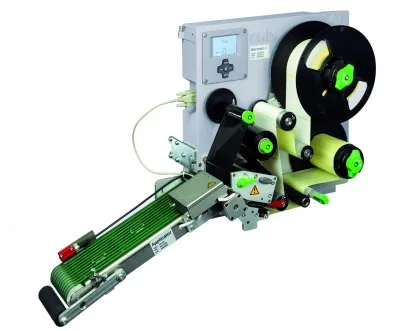
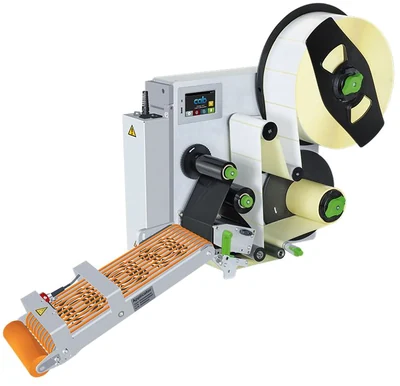
Show the vacuum-belt applicator as the 5314/5316 pair it is (#138)
A gyári adatlap (cab-hermes-q.pdf, 31. oldal) szerint ebből az applikátorból
két változat van, és csak abban térnek el, melyik nyomtatószélességhez
valók — emiatt más a fogadott címkeszélesség és a tömeg is:

  HQ 5314  ->  HERMES Q4 / Q4.3 (4"),  címkeszélesség  20-114 mm,  7 kg
  HQ 5316  ->  HERMES Q6.3      (6"),  címkeszélesség  46-174 mm,  8 kg

Eddig egyetlen típus szerepelt "5314" néven, 20-174 mm címkeszélességgel —
ez a két változat összemosott, egyik gépre sem igaz értéke volt. Most a
név, a rövid és a hosszú leírás is mindkét típust említi, a szélesség pedig
két külön sorban, típushoz kötve szerepel.

További pontosítások ugyanabból az adatlapból:
- a címkemagasság a szalaghosszból adódik: 60-256 / 60-356 / 60-456 mm;
- a csomagsebességhez odakerült a gyári kikötés, hogy legalább a
  vákuumszalag sebességét el kell érnie;
- új sor: csomagok közti rés, min. 0,5 m (eddig hiányzott);
- a tömeg típusonként bontva, a korábbi "7-8 kg" helyett.

Kép: az új gyári fotó, a teljes géppel és a felszerelt szalagmodullal. A
háttér már fehér volt, de a JPEG tömörítés miatt nem pontosan 255 — a
szélekről indított kitöltés tisztára mosta (a pixelek 63,8%-a), utána a
fehér keret levágva, hogy a csempén a gép töltse ki a helyet. 400x386,
WebP, 17,6 kB.

Ellenőrizve: tsc, STATIC_EXPORT=1 build. Mind a hét nyelvi oldal címében
ott a két típusszám, a paramétertáblában a 20-114 és a 46-174 mm, a
csomagrés és a típusonkénti tömeg; a Hermes Q lap csempéje az új képet
[…]

diff --git a/src/lib/products.ts b/src/lib/products.ts
@@ -759,26 +759,28 @@ const productsSource: Sourced<Product[]> = [
       {
         slug: 'hq-5314',
         image: '/images/applicators/hq-5314.webp',
-        name: { hu: '5314 Vákuumszalagos applikátor', en: '5314 Vacuum-belt applicator', it: 'Applicatore a nastro aspirante 5314', es: 'Aplicador de cinta de vacío 5314', de: '5314 Vakuumband-Applikator', ko: '5314 진공 벨트 어플리케이터', zh: '5314 真空带式贴标模块' },
+        name: { hu: '5314 / 5316 Vákuumszalagos applikátor', en: '5314 / 5316 Vacuum-belt applicator', it: 'Applicatore a nastro aspirante 5314 / 5316', es: 'Aplicador de cinta de vacío 5314 / 5316', de: '5314 / 5316 Vakuumband-Applikator', ko: '5314 / 5316 진공 벨트 어플리케이터', zh: '5314 / 5316 真空带式贴标模块' },
         description: {
-          hu: 'Címkézés nagy sebességgel, mozgásban lévő termékeknél.',
-          en: 'High-speed labeling of products in motion.', it: 'Etichettatura ad alta velocità di prodotti in movimento.', es: 'Etiquetado a alta velocidad de productos en movimiento.', de: 'Hochgeschwindigkeits-Etikettierung bewegter Produkte.', ko: '이동 중인 제품의 고속 라벨링.', zh: '对运动中的产品进行高速贴标。',
+          hu: 'Címkézés nagy sebességgel, mozgásban lévő termékeknél. Két változat: 4" és 6" szélességhez.',
+          en: 'High-speed labeling of products in motion. Two versions: for 4" and 6" width.', it: 'Etichettatura ad alta velocità di prodotti in movimento. Due versioni: per larghezza 4" e 6".', es: 'Etiquetado a alta velocidad de productos en movimiento. Dos versiones: para anchura de 4" y 6".', de: 'Hochgeschwindigkeits-Etikettierung bewegter Produkte. Zwei Ausführungen: für 4" und 6" Breite.', ko: '이동 중인 제품의 고속 라벨링. 4"와 6" 폭용 두 가지 버전.', zh: '对运动中的产品进行高速贴标。两种版本：适用于 4" 和 6" 宽度。',
         },
         longDescription: {
-          hu: 'Címkék valós idejű felhelyezése minden oldalról, sík felületekre, mozgásban lévő csomagokra. A nyomtatott címkét vákuumszalag viszi a felhelyezési pontra, a felhelyezést külső jel indítja.',
-          en: 'Applies labels in real time from all sides onto plane surfaces of packages in motion. A vacuum belt conveys the printed label to the point of transfer, and application is triggered by an external signal.', it: 'Applica le etichette in tempo reale da tutti i lati su superfici piane di confezioni in movimento. Un nastro aspirante trasporta l’etichetta stampata fino al punto di trasferimento e l’applicazione è attivata da un segnale esterno.', es: 'Aplica etiquetas en tiempo real desde todos los lados sobre superficies planas de paquetes en movimiento. Una cinta de vacío transporta la etiqueta impresa hasta el punto de transferencia y la aplicación se activa mediante una señal externa.', de: 'Bringt Etiketten in Echtzeit von allen Seiten auf ebene Oberflächen bewegter Verpackungen auf. Ein Vakuumband befördert das gedruckte Etikett zum Übergabepunkt; die Etikettierung wird durch ein externes Signal ausgelöst.', ko: '이동 중인 패키지의 평면에 모든 면에서 실시간으로 라벨을 부착합니다. 진공 벨트가 인쇄된 라벨을 전달 지점까지 이송하며, 부착은 외부 신호로 트리거됩니다.', zh: '可从各个方向向运动中包装的平面实时贴标。真空传送带将打印好的标签输送至转贴点，贴标由外部信号触发。',
+          hu: 'Címkék valós idejű felhelyezése minden oldalról, sík felületekre, mozgásban lévő csomagokra. A nyomtatott címkét vákuumszalag viszi a felhelyezési pontra, a felhelyezést külső jel indítja. A két típus abban tér el, hogy melyik nyomtatószélességhez való: az 5314 a 4"-os (HERMES Q4 / Q4.3), az 5316 a 6"-os (HERMES Q6.3) gépekhez — ebből adódik a fogadott címkeszélesség és a tömeg is. Minden más adatuk azonos. A címkemagasság határa a szalag hosszától függ (256, 356 vagy 456 mm).',
+          en: 'Applies labels in real time from all sides onto plane surfaces of packages in motion. A vacuum belt conveys the printed label to the point of transfer, and application is triggered by an external signal. The two versions differ in the print width they belong to: the 5314 fits the 4" machines (HERMES Q4 / Q4.3), the 5316 the 6" ones (HERMES Q6.3) — hence the different label width and weight. All their other data are identical. The label height limit depends on the belt length (256, 356 or 456 mm).', it: 'Applica le etichette in tempo reale da tutti i lati su superfici piane di confezioni in movimento. Un nastro aspirante trasporta l’etichetta stampata fino al punto di trasferimento e l’applicazione è attivata da un segnale esterno. Le due versioni differiscono per la larghezza di stampa a cui sono destinate: il 5314 per le macchine da 4" (HERMES Q4 / Q4.3), il 5316 per quelle da 6" (HERMES Q6.3) — da qui la diversa larghezza etichetta e il diverso peso. Tutti gli altri dati sono identici. Il limite di altezza dell’etichetta dipende dalla lunghezza del nastro (256, 356 o 456 mm).', es: 'Aplica etiquetas en tiempo real desde todos los lados sobre superficies planas de paquetes en movimiento. Una cinta de vacío transporta la etiqueta impresa hasta el punto de transferencia y la aplicación se activa mediante una señal externa. Las dos versiones se diferencian por la anchura de impresión a la que corresponden: el 5314 para las máquinas de 4" (HERMES Q4 / Q4.3) y el 5316 para las de 6" (HERMES Q6.3), de ahí la distinta anchura de etiqueta y el distinto peso. Todos sus demás datos son idénticos. El límite de altura de etiqueta depende de la longitud de la cinta (256, 356 o 456 mm).', de: 'Bringt Etiketten in Echtzeit von allen Seiten auf ebene Oberflächen bewegter Verpackungen auf. Ein Vakuumband befördert das gedruckte Etikett zum Übergabepunkt; die Etikettierung wird durch ein externes Signal ausgelöst. Die beiden Ausführungen unterscheiden sich in der Druckbreite, zu der sie gehören: der 5314 passt zu den 4"-Geräten (HERMES Q4 / Q4.3), der 5316 zu den 6"-Geräten (HERMES Q6.3) — daraus ergeben sich die unterschiedliche Etikettenbreite und das unterschiedliche Gewicht. Alle übrigen Daten sind identisch. Die Grenze der Etikettenhöhe hängt von der Bandlänge ab (256, 356 oder 456 mm).', ko: '이동 중인 패키지의 평면에 모든 면에서 실시간으로 라벨을 부착합니다. 진공 벨트가 인쇄된 라벨을 전달 지점까지 이송하며, 부착은 외부 신호로 트리거됩니다. 두 버전은 해당하는 인쇄 폭에서 차이가 납니다. 5314는 4" 장비(HERMES Q4 / Q4.3)용, 5316은 6" 장비(HERMES Q6.3)용이며, 이에 따라 라벨 폭과 중량이 달라집니다. 그 외의 모든 데이터는 동일합니다. 라벨 높이 한계는 벨트 길이에 따라 정해집니다(256, 356 또는 456 mm).', zh: '可从各个方向向运动中包装的平面实时贴标。真空传送带将打印好的标签输送至转贴点，贴标由外部信号触发。两种版本的区别在于所对应的打印宽度：5314 适用于 4" 机型（HERMES Q4 / Q4.3），5316 适用于 6" 机型（HERMES Q6.3）——由此产生标签宽度和重量的差异。其余各项数据完全相同。标签高度上限取决于传送带长度（256、356 或 456 mm）。',
         },
         params: [
-          { label: { hu: 'Címkeszélesség', en: 'Label width', it: 'Larghezza etichetta', es: 'Ancho de etiqueta', de: 'Etikettenbreite', ko: '라벨 폭', zh: '标签宽度' }, value: { hu: '20–174 mm', en: '20–174 mm', it: '20–174 mm', es: '20–174 mm', de: '20–174 mm', ko: '20–174 mm', zh: '20–174 mm' } },
-          { label: { hu: 'Címkemagasság', en: 'Label height', it: 'Altezza etichetta', es: 'Altura de etiqueta', de: 'Etikettenhöhe', ko: '라벨 높이', zh: '标签高度' }, value: { hu: '60–456 mm', en: '60–456 mm', it: '60–456 mm', es: '60–456 mm', de: '60–456 mm', ko: '60–456 mm', zh: '60–456 mm' } },
+          { label: { hu: 'Címkeszélesség — 5314 (4")', en: 'Label width — 5314 (4")', it: 'Larghezza etichetta — 5314 (4")', es: 'Ancho de etiqueta — 5314 (4")', de: 'Etikettenbreite — 5314 (4")', ko: '라벨 폭 — 5314(4")', zh: '标签宽度 — 5314（4"）' }, value: { hu: '20–114 mm', en: '20–114 mm', it: '20–114 mm', es: '20–114 mm', de: '20–114 mm', ko: '20–114 mm', zh: '20–114 mm' } },
+          { label: { hu: 'Címkeszélesség — 5316 (6")', en: 'Label width — 5316 (6")', it: 'Larghezza etichetta — 5316 (6")', es: 'Ancho de etiqueta — 5316 (6")', de: 'Etikettenbreite — 5316 (6")', ko: '라벨 폭 — 5316(6")', zh: '标签宽度 — 5316（6"）' }, value: { hu: '46–174 mm', en: '46–174 mm', it: '46–174 mm', es: '46–174 mm', de: '46–174 mm', ko: '46–174 mm', zh: '46–174 mm' } },
+          { label: { hu: 'Címkemagasság', en: 'Label height', it: 'Altezza etichetta', es: 'Altura de etiqueta', de: 'Etikettenhöhe', ko: '라벨 높이', zh: '标签高度' }, value: { hu: '60–256 / 60–356 / 60–456 mm (szalaghossz szerint)', en: '60–256 / 60–356 / 60–456 mm (by belt length)', it: '60–256 / 60–356 / 60–456 mm (secondo la lunghezza del nastro)', es: '60–256 / 60–356 / 60–456 mm (según la longitud de la cinta)', de: '60–256 / 60–356 / 60–456 mm (je Bandlänge)', ko: '60–256 / 60–356 / 60–456 mm(벨트 길이에 따라)', zh: '60–256 / 60–356 / 60–456 mm（取决于传送带长度）' } },
           { label: { hu: 'Termék állapota', en: 'Product state', it: 'Stato del prodotto', es: 'Estado del producto', de: 'Produktzustand', ko: '제품 상태', zh: '产品状态' }, value: { hu: 'mozgásban', en: 'in motion', it: 'in movimento', es: 'en movimiento', de: 'in Bewegung', ko: '이동 중', zh: '运动' } },
           { label: { hu: 'Felhelyezés iránya', en: 'Application direction', it: 'Direzione di applicazione', es: 'Dirección de aplicación', de: 'Etikettierrichtung', ko: '부착 방향', zh: '贴标方向' }, value: { hu: 'felülről, alulról, oldalról (sík felületre)', en: 'from top, below, side (plane surfaces)', it: 'dall’alto, dal basso, laterale (superfici piane)', es: 'desde arriba, desde abajo, lateral (superficies planas)', de: 'von oben, unten, seitlich (ebene Flächen)', ko: '상단, 하단, 측면에서(평면)', zh: '从顶部、底部、侧面（平面）' } },
           { label: { hu: 'Csomagmagasság', en: 'Package height', it: 'Altezza confezione', es: 'Altura del paquete', de: 'Pakethöhe', ko: '패키지 높이', zh: '包装高度' }, value: { hu: 'egyenletes', en: 'uniform', it: 'uniforme', es: 'uniforme', de: 'einheitlich', ko: '균일', zh: '一致' } },
-          { label: { hu: 'Csomagsebesség', en: 'Package speed', it: 'Velocità della confezione', es: 'Velocidad del paquete', de: 'Paketgeschwindigkeit', ko: '패키지 속도', zh: '包装速度' }, value: { hu: 'max. 0,5 m/s', en: 'up to 0.5 m/s', it: 'fino a 0,5 m/s', es: 'hasta 0,5 m/s', de: 'bis 0,5 m/s', ko: '최대 0.5 m/s', zh: '最高 0.5 m/s' } },
+          { label: { hu: 'Csomagsebesség', en: 'Package speed', it: 'Velocità della confezione', es: 'Velocidad del paquete', de: 'Paketgeschwindigkeit', ko: '패키지 속도', zh: '包装速度' }, value: { hu: 'max. 0,5 m/s (legalább a szalag sebességével egyező)', en: 'up to 0.5 m/s (at least the belt speed)', it: 'fino a 0,5 m/s (almeno pari alla velocità del nastro)', es: 'hasta 0,5 m/s (al menos la velocidad de la cinta)', de: 'bis 0,5 m/s (mindestens Bandgeschwindigkeit)', ko: '최대 0.5 m/s(벨트 속도 이상)', zh: '最高 0.5 m/s（不低于传送带速度）' } },
+          { label: { hu: 'Csomagok közti rés', en: 'Gap between packages', it: 'Distanza tra le confezioni', es: 'Separación entre paquetes', de: 'Abstand zwischen Paketen', ko: '패키지 간 간격', zh: '包装间距' }, value: { hu: 'min. 0,5 m', en: 'at least 0.5 m', it: 'almeno 0,5 m', es: 'al menos 0,5 m', de: 'mind. 0,5 m', ko: '최소 0.5 m', zh: '至少 0.5 m' } },
           { label: { hu: 'Vákuumszalag sebessége', en: 'Vacuum-belt speed', it: 'Velocità del nastro aspirante', es: 'Velocidad de la cinta de vacío', de: 'Vakuumbandgeschwindigkeit', ko: '진공 벨트 속도', zh: '真空带速度' }, value: { hu: '100–500 mm/s', en: '100–500 mm/s', it: '100–500 mm/s', es: '100–500 mm/s', de: '100–500 mm/s', ko: '100–500 mm/s', zh: '100–500 mm/s' } },
           { label: { hu: 'Ciklusidő', en: 'Cycle rate', it: 'Cadenza di ciclo', es: 'Cadencia de ciclo', de: 'Taktrate', ko: '사이클 속도', zh: '贴标节拍' }, value: { hu: 'max. 30 címke/perc', en: 'up to 30 labels/min', it: 'fino a 30 etichette/min', es: 'hasta 30 etiquetas/min', de: 'bis 30 Etiketten/min', ko: '최대 30매/분', zh: '最高 30 张/分钟' } },
           { label: { hu: 'Teljesítményfelvétel', en: 'Power consumption', it: 'Assorbimento', es: 'Consumo eléctrico', de: 'Leistungsaufnahme', ko: '소비 전력', zh: '功耗' }, value: { hu: 'max. 90 W', en: 'max. 90 W', it: 'max. 90 W', es: 'máx. 90 W', de: 'max. 90 W', ko: '최대 90 W', zh: '最大 90 W' } },
-          { label: { hu: 'Tömeg', en: 'Weight', it: 'Peso', es: 'Peso', de: 'Gewicht', ko: '중량', zh: '重量' }, value: { hu: '7–8 kg', en: '7–8 kg', it: '7–8 kg', es: '7–8 kg', de: '7–8 kg', ko: '7–8 kg', zh: '7–8 kg' } },
+          { label: { hu: 'Tömeg', en: 'Weight', it: 'Peso', es: 'Peso', de: 'Gewicht', ko: '중량', zh: '重量' }, value: { hu: '5314: 7 kg / 5316: 8 kg', en: '5314: 7 kg / 5316: 8 kg', it: '5314: 7 kg / 5316: 8 kg', es: '5314: 7 kg / 5316: 8 kg', de: '5314: 7 kg / 5316: 8 kg', ko: '5314: 7 kg / 5316: 8 kg', zh: '5314：7 kg / 5316：8 kg' } },
         ],
       },
       {
